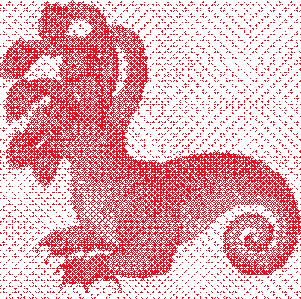
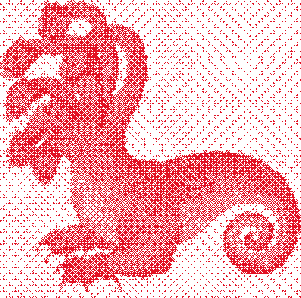
docs: clean silhouette + Alagard display font
Gate the banner creature dither to its dense region (drop the distracting
background stipple); adopt Chimera's Alagard pixel font for the HYDRA
wordmark and section headings; parallel subtitle.

diff --git a/docs/index.html b/docs/index.html
@@ -6,7 +6,15 @@
 <title>Hydra — Manual</title>
 </head>
 <body>
+<!-- Wordmark/display font: "Alagard" by Hewett Tsoi (free) — as used by Chimera -->
 <style>
+  @font-face{
+    font-family:'Alagard';
+    src:url('alagard.ttf') format('truetype');
+    font-weight:normal;
+    font-style:normal;
+    font-display:swap;
+  }
   :root{
     --bg:#f6edcf;
     --ink:#2a1a0c;
@@ -17,6 +25,7 @@
     --accent:#e11224;
     --hot:#f0e020;
     --mono:ui-monospace,"Cascadia Mono","JetBrains Mono",Consolas,"Liberation Mono",monospace;
+    --display:'Alagard',ui-monospace,Consolas,monospace;
   }
   *{box-sizing:border-box}
   html{background:var(--bg)}
@@ -49,7 +58,17 @@
     padding:0 28px;
     pointer-events:none;
   }
-  #wordmark{height:52px;width:auto;display:block}
+  #wordmark{
+    font-family:var(--display);
+    font-size:60px;
+    line-height:1;
+    color:var(--accent);
+    letter-spacing:3px;
+    text-shadow:3px 3px 0 #6e0a12;
+    -webkit-font-smoothing:none;
+    font-smooth:never;
+  }
+  @media (max-width:600px){ #wordmark{font-size:42px} }
   .tagline{
     margin-top:10px;
     font-size:12px;
@@ -88,13 +107,15 @@
 
   /* ---------- type ---------- */
   h2{
-    font-size:16px;
-    font-weight:700;
-    letter-spacing:.14em;
-    text-transform:uppercase;
+    font-family:var(--display);
+    font-size:23px;
+    font-weight:400;
+    letter-spacing:.03em;
     margin:64px 0 4px;
     color:var(--ink);
     text-wrap:balance;
+    -webkit-font-smoothing:none;
+    font-smooth:never;
   }
   h2::before{content:"▓▒░ ";color:var(--accent);letter-spacing:0}
   section:first-of-type h2{margin-top:8px}
@@ -237,8 +258,8 @@
 <header>
   <canvas id="banner" width="1060" height="290" aria-hidden="true"></canvas>
   <div class="hero-inner">
-    <canvas id="wordmark" aria-label="HYDRA"></canvas>
-    <div class="tagline">Audio chord generator · <b>Expert Sleepers Disting NT</b> · Manual</div>
+    <div id="wordmark">HYDRA</div>
+    <div class="tagline">Many-headed audio chord generator · <b>Expert Sleepers Disting NT</b> · Manual</div>
   </div>
 </header>
 
@@ -566,26 +587,6 @@
   }
   function prepCreature(done){ var im=new Image(); im.onload=function(){ creature=im; done(); }; im.src='hydra.png'; }
 
-  // ---- pixel wordmark: render HYDRA small, scale up hard --------------------
-  function drawWordmark(){
-    var cv=document.getElementById('wordmark'); if(!cv) return;
-    var px=6, base=document.createElement('canvas');
-    base.width=64; base.height=11;
-    var b=base.getContext('2d');
-    b.imageSmoothingEnabled=false;
-    b.font='bold 10px "Courier New",monospace'; b.textBaseline='top';
-    b.fillStyle='#e11224'; b.fillText('HYDRA',1,0);
-    // darker drop-shadow copy
-    var sh=document.createElement('canvas'); sh.width=base.width; sh.height=base.height;
-    var s=sh.getContext('2d'); s.drawImage(base,0,0);
-    s.globalCompositeOperation='source-in'; s.fillStyle='#6e0a12'; s.fillRect(0,0,sh.width,sh.height);
-    cv.width=(base.width+1)*px; cv.height=(base.height+1)*px;
-    var ctx=cv.getContext('2d'); ctx.imageSmoothingEnabled=false;
-    ctx.drawImage(sh,px,px,base.width*px,base.height*px);
-    ctx.drawImage(base,0,0,base.width*px,base.height*px);
-    cv.style.height=cv.height+'px';
-  }
-
   // ---- section rules: dithered density ramps ------------------------------
   function drawRules(){
     var rules=document.querySelectorAll('canvas.rule');
@@ -634,7 +635,7 @@
     outlinedText(250,14,'In: E','#ff5a4d','right');
   }
 
-  function drawAll(){ drawBanner(); drawWordmark(); drawRules(); drawScreen(); }
+  function drawAll(){ drawBanner(); drawRules(); drawScreen(); }
   drawAll();
   prepCreature(drawBanner);
   var t;